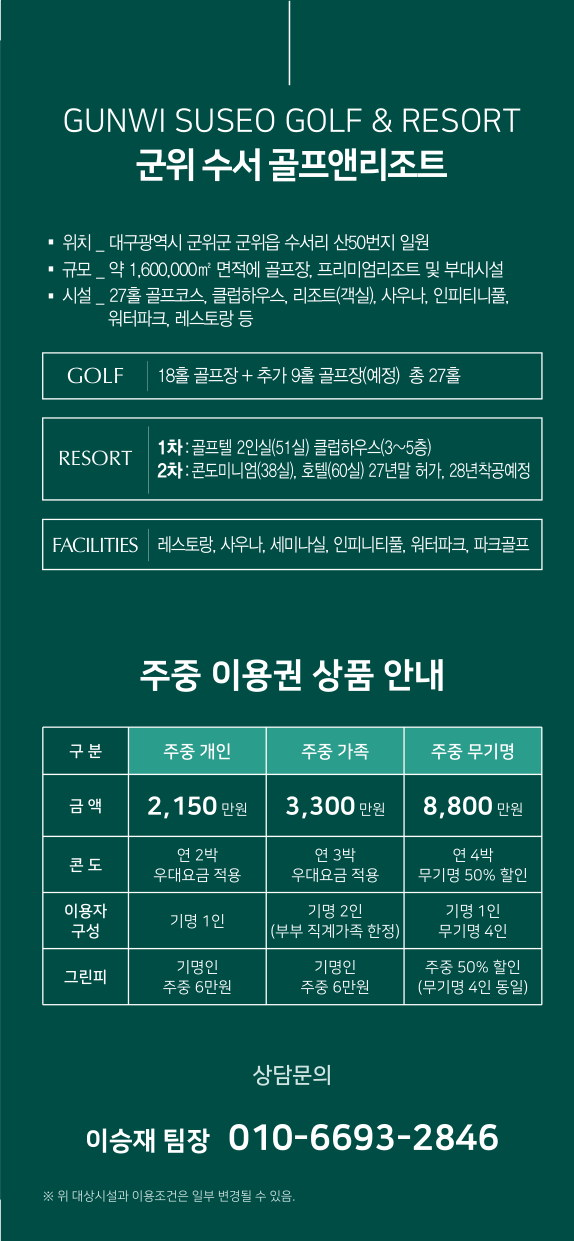
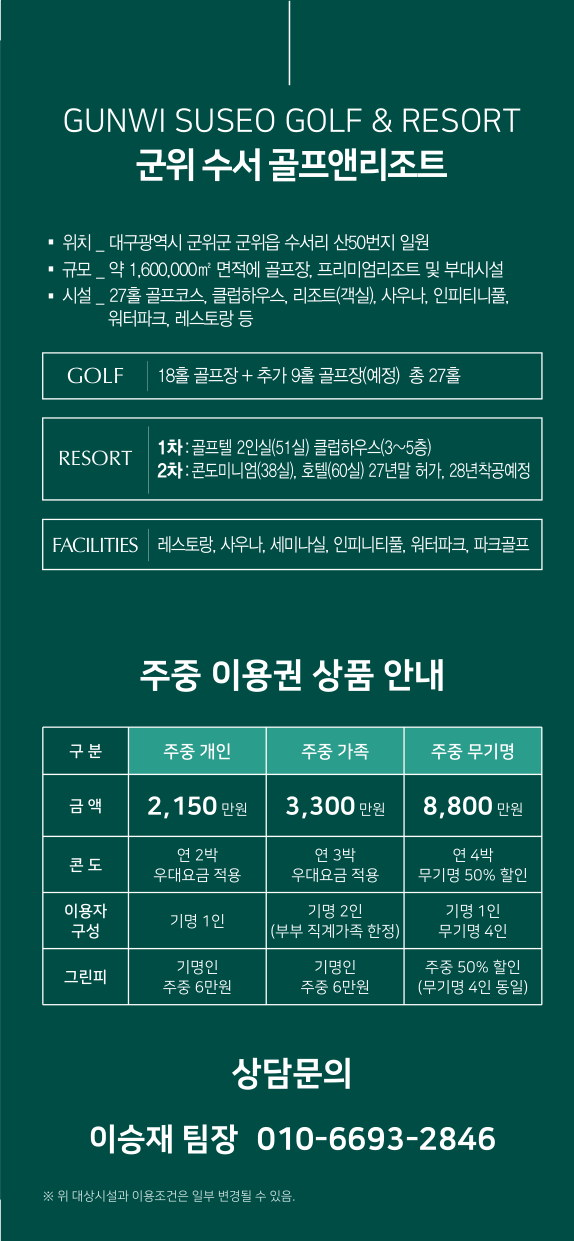
v5: ④ 상담문의 블록 폰트·크기 통일(EB, 이름=번호 15pt, 상담문의 16pt)

Changed region(s): [[0.1481, 0.8268, 0.8589, 0.9492]]

diff --git a/leaflet/index.html b/leaflet/index.html
@@ -90,7 +90,7 @@
 
 <script>
 (function () {
-  var BUILD = '202609071415';   // 이미지 캐시 무효화용. 빌드마다 갱신
+  var BUILD = '202609071421';   // 이미지 캐시 무효화용. 빌드마다 갱신
   var VERS = [
     ['v2', 'v2'],
     ['v3b', 'v3'],
